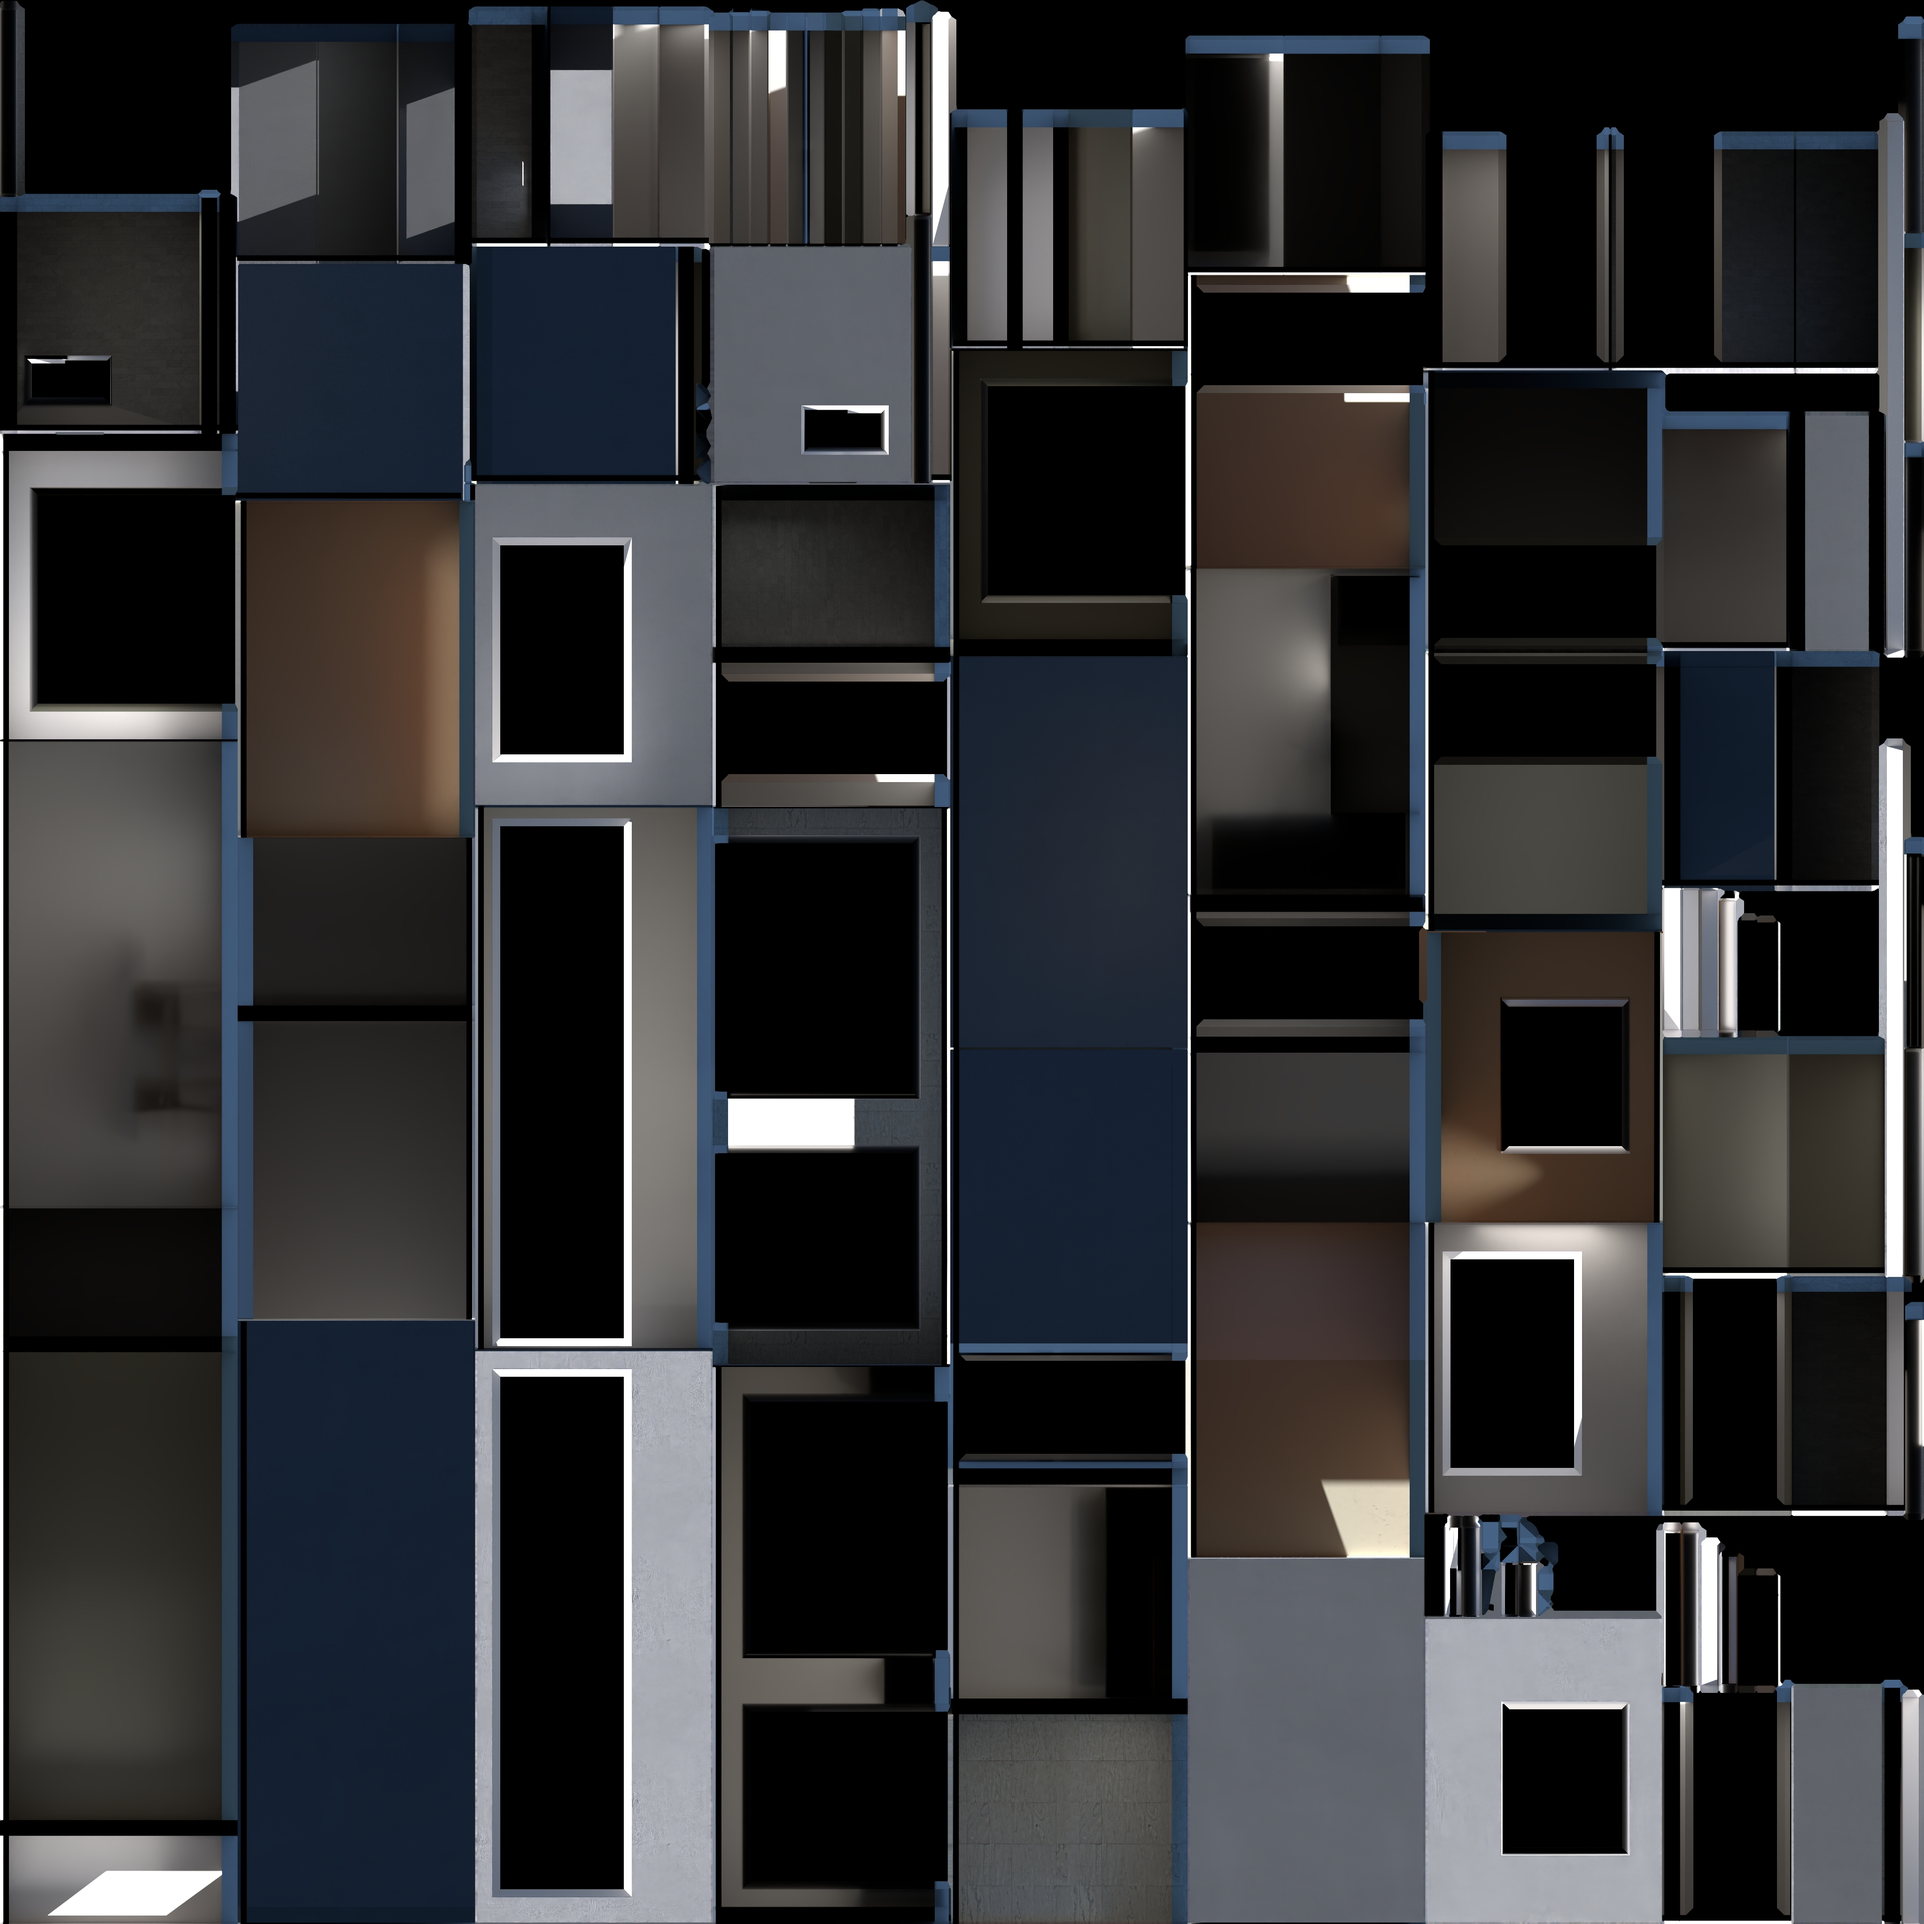
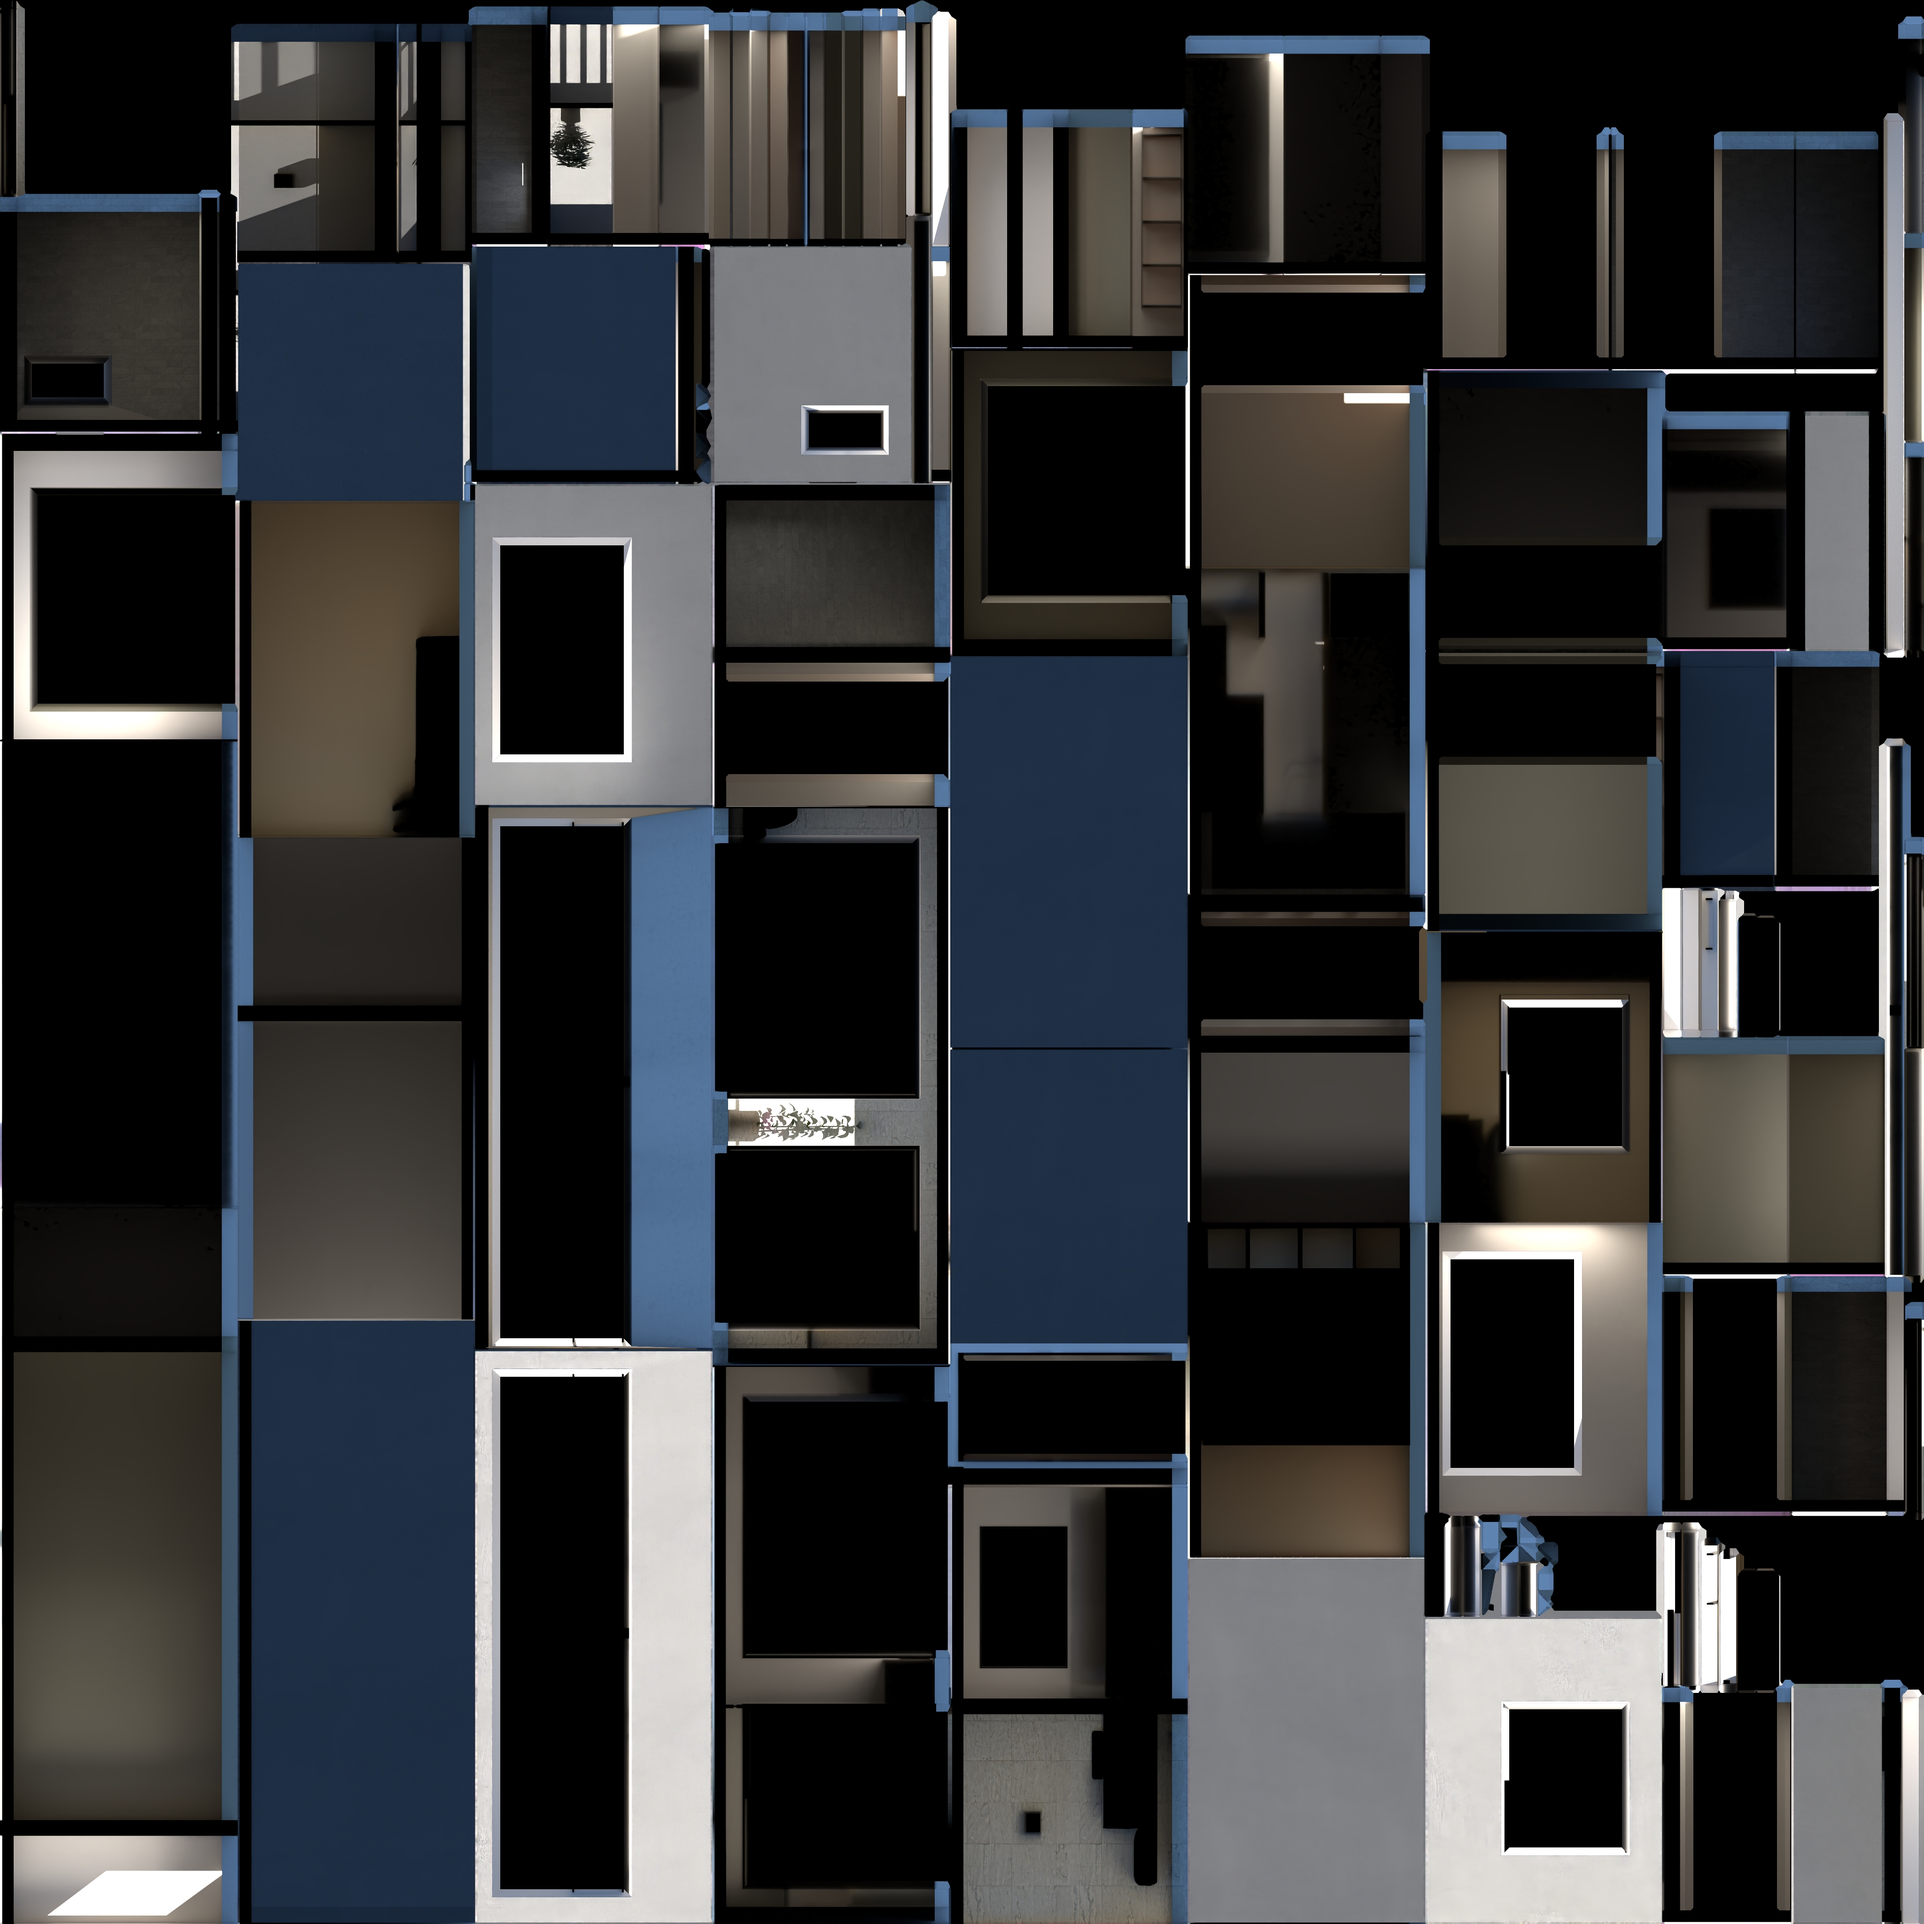
Esp32 core optmized

diff --git a/src/pages/index.tsx b/src/pages/index.tsx
@@ -3,7 +3,7 @@ import Image from "next/image";
 import { Crushed, Inter, Vampiro_One } from "next/font/google";
 import styles from "../styles/Home.module.css";
 import { useFrame, useLoader, useGraph, useThree, extend} from '@react-three/fiber'
-import { SoftShadows, Environment, Reflector, useGLTF, RandomizedLight, SpotLight, Stats, useTexture, Lightformer, MeshTransmissionMaterial, MeshReflectorMaterial, useProgress, Html} from '@react-three/drei'
+import { SoftShadows, Environment, Reflector, useGLTF, RandomizedLight, SpotLight, Stats, useTexture, Lightformer, MeshTransmissionMaterial, MeshReflectorMaterial, useProgress, Html, AccumulativeShadows} from '@react-three/drei'
 import { useEffect, Suspense, useRef, useState, forwardRef, use, useContext, useMemo} from "react"
 import { Vector3, Camera, WebGLCubeRenderTarget, DoubleSide, MathUtils, PerspectiveCamera, FrontSide, CatmullRomCurve3, Vector4} from "three";
 import {Bloom, EffectComposer, GodRays, SMAA} from "@react-three/postprocessing";
@@ -28,13 +28,13 @@ function Windows(props) {
   return(
     <group {...props} dispose={null}>
       <group position={[0, 0.01, -0.027]} scale={[1.4, 1.4, 1.408]}>
-        <mesh geometry={Window.nodes.Cube005.geometry}>
+        <mesh castShadow receiveShadow geometry={Window.nodes.Cube005.geometry}>
           <meshPhysicalMaterial map={texture} side={DoubleSide}/>
         </mesh>
       </group>
 
       <group>
-        <mesh geometry={Glass.nodes.Plane006.geometry} position={[-0.26, 0.12, 4.024]} scale={[1.4, 1.1, 1.1]} rotation={[0, -  Math.PI/2,Math.PI / 2]}>
+        <mesh castShadow receiveShadow geometry={Glass.nodes.Plane006.geometry} position={[-0.26, 0.12, 4.024]} scale={[1.4, 1.1, 1.1]} rotation={[0, -  Math.PI/2,Math.PI / 2]}>
           <MeshTransmissionMaterial thickness={0.01}  resolution={1024} ior={1.25} roughness={0.09} transmission={0.95} clearcoat={1} clearcoatRoughness={0} transparent={false}/>
         </mesh>
       </group>
@@ -51,7 +51,7 @@ function Roof(props){
 
   return(
     <group {...props} ref={props.pos} scale={1.4}>
-      <mesh geometry={nodes.Plane001.geometry}>
+      <mesh castShadow receiveShadow geometry={nodes.Plane001.geometry}>
         <meshPhysicalMaterial map={texture}/>
       </mesh> 
     </group>
@@ -73,7 +73,7 @@ function Floor(props) {
 
   return (
     <group {...props} position={[0, 0.01, 0]} scale={1.4} rotation={[Math.PI/2, Math.PI, Math.PI]}>
-      <mesh geometry={floor.nodes.Plane003.geometry}>
+      <mesh castShadow receiveShadow geometry={floor.nodes.Plane003.geometry}>
         <MeshReflectorMaterial
           side={DoubleSide}
           blur={[1600, 800]}
@@ -104,7 +104,7 @@ function Walls(props) {
   return (
     <>
       <group {...props} scale={[1.4, 1.4, 1.4]}>
-        <mesh geometry={nodes.Plane002.geometry} >
+        <mesh castShadow receiveShadow geometry={nodes.Plane002.geometry} >
           <meshPhysicalMaterial side={DoubleSide} map={texture} roughness={0.95}/>
         </mesh>
       </group>
@@ -167,62 +167,62 @@ function Furniture(props) {
   return(
     <>
       <group scale={[1.225, 1.3, 1.5]} position={[1.375, 0.7, 2.875]}>
-        <mesh geometry={sofa.nodes.under_part.geometry}>
+        <mesh castShadow receiveShadow geometry={sofa.nodes.under_part.geometry}>
           <meshPhysicalMaterial side={DoubleSide} map={sofa_map}/>       
         </mesh>
       </group>
       <group {...props} dispose={null} scale={1.4}>
-        <mesh geometry={outdoorcouch.nodes.couch.geometry}>
+        <mesh castShadow receiveShadow geometry={outdoorcouch.nodes.couch.geometry}>
           <meshPhysicalMaterial side={DoubleSide} map={outdoorcouch_map}/>
         </mesh>
       </group>
       <group {...props} dispose={null} scale={[1.4, 1.4, 1.4]}>
-        <mesh geometry={chair.nodes.Leme_chair002.geometry}>
+        <mesh castShadow receiveShadow geometry={chair.nodes.Leme_chair002.geometry}>
           <meshPhysicalMaterial map={chair_map}/>
         </mesh>
       </group>
       <group {...props} dispose={null} scale={[1.4, 1.4, 1.4]}>
-        <mesh geometry={table.nodes.Table.geometry}>
+        <mesh castShadow receiveShadow geometry={table.nodes.Table.geometry}>
           <meshPhysicalMaterial map={table_map}/>
         </mesh>
       </group>
       <group {...props} dispose={null} scale={1.4}>
-        <mesh geometry={kitchen.nodes.kitchen.geometry}>
+        <mesh castShadow receiveShadow geometry={kitchen.nodes.kitchen.geometry}>
           <meshPhysicalMaterial side={DoubleSide} map={kitchen_map}/>
         </mesh>
       </group>
       <group {...props} dispose={null} scale={1.4}>
-        <mesh geometry={fridge.nodes.Circle.geometry}>
+        <mesh castShadow receiveShadow geometry={fridge.nodes.Circle.geometry}>
           <meshPhysicalMaterial map={fridge_map}/>
         </mesh>
       </group>
       <group {...props} dispose={null} rotation={[0, 0, Math.PI / 2]} scale={1.4}>
-        <mesh geometry={tvstand.nodes.Cube010.geometry}>
+        <mesh castShadow receiveShadow geometry={tvstand.nodes.Cube010.geometry}>
           <meshPhysicalMaterial side={DoubleSide} map={tvstand_map}/>
         </mesh>
       </group>
       <group {...props} dispose={null} scale={1.4}>
-        <mesh geometry={fence.nodes.Cube011.geometry}>
+        <mesh castShadow receiveShadow geometry={fence.nodes.Cube011.geometry}>
           <meshPhysicalMaterial map={fence_map}/>
         </mesh>
       </group>
       <group {...props} dispose={null} scale={1.4}>
-        <mesh geometry={woodWall.nodes.Plane005.geometry}>
+        <mesh castShadow receiveShadow geometry={woodWall.nodes.Plane005.geometry}>
           <meshPhysicalMaterial map={woodWall_map}/>
         </mesh>
       </group>
       <group {...props} dispose={null} scale={1.4}>
-        <mesh geometry={frame.nodes.Buffet_bazalt001.geometry}>
+        <mesh castShadow receiveShadow geometry={frame.nodes.Buffet_bazalt001.geometry}>
           <meshPhysicalMaterial side={DoubleSide} map={frame_map}/>
         </mesh>
       </group>
       <group {...props} position={[0, 0.1225, 0]} dispose={null} scale={1.4}>
-        <mesh geometry={light.nodes.Cube009.geometry}>
+        <mesh castShadow receiveShadow geometry={light.nodes.Cube009.geometry}>
           <meshPhysicalMaterial side={DoubleSide} map={light_map}/>
         </mesh>
       </group>
       <group {...props} dispose={null} scale={1.4}>
-        <mesh geometry={plant.nodes.Plane.geometry}>
+        <mesh castShadow receiveShadow geometry={plant.nodes.Plane.geometry}>
           <meshPhysicalMaterial side={DoubleSide} map={plant_map}/>
         </mesh>
       </group>
@@ -257,6 +257,7 @@ function Rays(){
         <EffectComposer enableNormalPass multisampling={1}>
           <SMAA />
           <GodRays sun={material} samples={50} exposure={1.2} />
+          
           <Bloom
             intensity={1}
             kernelSize={KernelSize.SMALL}
@@ -538,11 +539,14 @@ export default function HomeCanvas() {
       </ViewPos>
 
       <ambientLight intensity={2}/>
+      <AccumulativeShadows resolution={1024} frames={100} color={"black"} alphaTest={0.68} colorBlend={1.5} opacity={1.65} scale={8}>
+        <RandomizedLight radius={1.5} ambient={0.7} position={[-20, 4, 0]} bias={0.001} />
+      </AccumulativeShadows>
 
       <Suspense fallback={null}>
         <Roof pos={roofDisplacement}/>
-        <Floor ios={ios}/>
-        <Walls ios={ios}/>
+        <Floor ios={"true"}/>
+        <Walls ios={"true"}/>
         <Windows />
         <Furniture />
         <Sky/>

diff --git a/src/pages/_app.tsx b/src/pages/_app.tsx
@@ -16,7 +16,7 @@ export default function App({ Component, pageProps }: AppProps) {
 
   return(
     <ButtonContextProvider>
-      <Canvas className={styles.three} gl={{antialias: true, stencil: false}} frameloop={"always"} dpr={2} camera={{ position: [-10, 2.3, 5], fov:75 }}>
+      <Canvas className={styles.three} gl={{antialias: true, stencil: false}} frameloop={"always"} dpr={1} camera={{ position: [-10, 2.3, 5], fov:75 }}>
         <Component />
         <PerspectiveCamera />
         {/* <CameraControls/> */}

diff --git a/Test.py b/Test.py
@@ -1,5 +1,5 @@
 from PIL import ImageGrab, ImageEnhance, Image
-import serial
+import socket
 import time
 import numpy
 from numba import jit, cuda
@@ -7,10 +7,12 @@ import pyautogui
 
 width, height = pyautogui.size()
 
-arduino = serial.Serial(port='COM3', baudrate=2000000)
+esp32 = socket.socket(socket.AF_INET, socket.SOCK_STREAM)
+esp32.bind(("0.0.0.0", 3030))
+esp32.listen()
 
 @jit(forceobj=True)
-def colors(screen, arduino):
+def colors(screen):
     output = []
 
     for img in screen:
@@ -19,8 +21,9 @@ def colors(screen, arduino):
 
         output = [*output, *average.astype(int).tolist()]
 
-    arduino.write(str(output).encode())
-
+    return output
+    
+@jit()
 def getPos(size, x, y):
     return (
         min(max(0, x - int(size / 2)), width),
@@ -33,15 +36,30 @@ def getScreenColor():
     size = 100
 
     while True:
-        screen = ImageGrab.grab()
-        downscale = screen.resize((24, 24), resample=Image.Resampling.BILINEAR)
-        screen_downscale = downscale.resize(screen.size, Image.Resampling.NEAREST)
-        screen_saturation = ImageEnhance.Color(screen_downscale).enhance(2)
+        client, addr = esp32.accept()
+        print(f"client connected: {addr}")
 
-        left = screen_saturation.crop(getPos(size, int(width * 0.2), int(height * 0.5)))
-        center = screen_saturation.crop(getPos(size, int(width * 0.5), int(height * 0.5)))
-        right = screen_saturation.crop(getPos(size, int(width * 0.8), int(height * 0.5)))
+        while True:
+            data = client.recv(16)
 
-        allColors = colors([right, center, left], arduino) 
+            if data:
+                screen = ImageGrab.grab()
+                downscale = screen.resize((24, 24), resample=Image.Resampling.BILINEAR)
+                screen_downscale = downscale.resize(screen.size, Image.Resampling.NEAREST)
+                screen_saturation = ImageEnhance.Color(screen_downscale).enhance(2)
+
+                left = screen_saturation.crop(getPos(size, int(width * 0.2), int(height * 0.3)))
+                center = screen_saturation.crop(getPos(size, int(width * 0.5), int(height * 0.3)))
+                right = screen_saturation.crop(getPos(size, int(width * 0.8), int(height * 0.3)))
+
+                allColors = colors([right, center, left])
+
+                try:
+                    sent_bytes = client.send(bytes([len(allColors), *allColors]))
+                    if sent_bytes == 0:
+                        raise Exception("Disconnected")
+                except:
+                    print("client disconnected")
+                    break
 
 getScreenColor()
